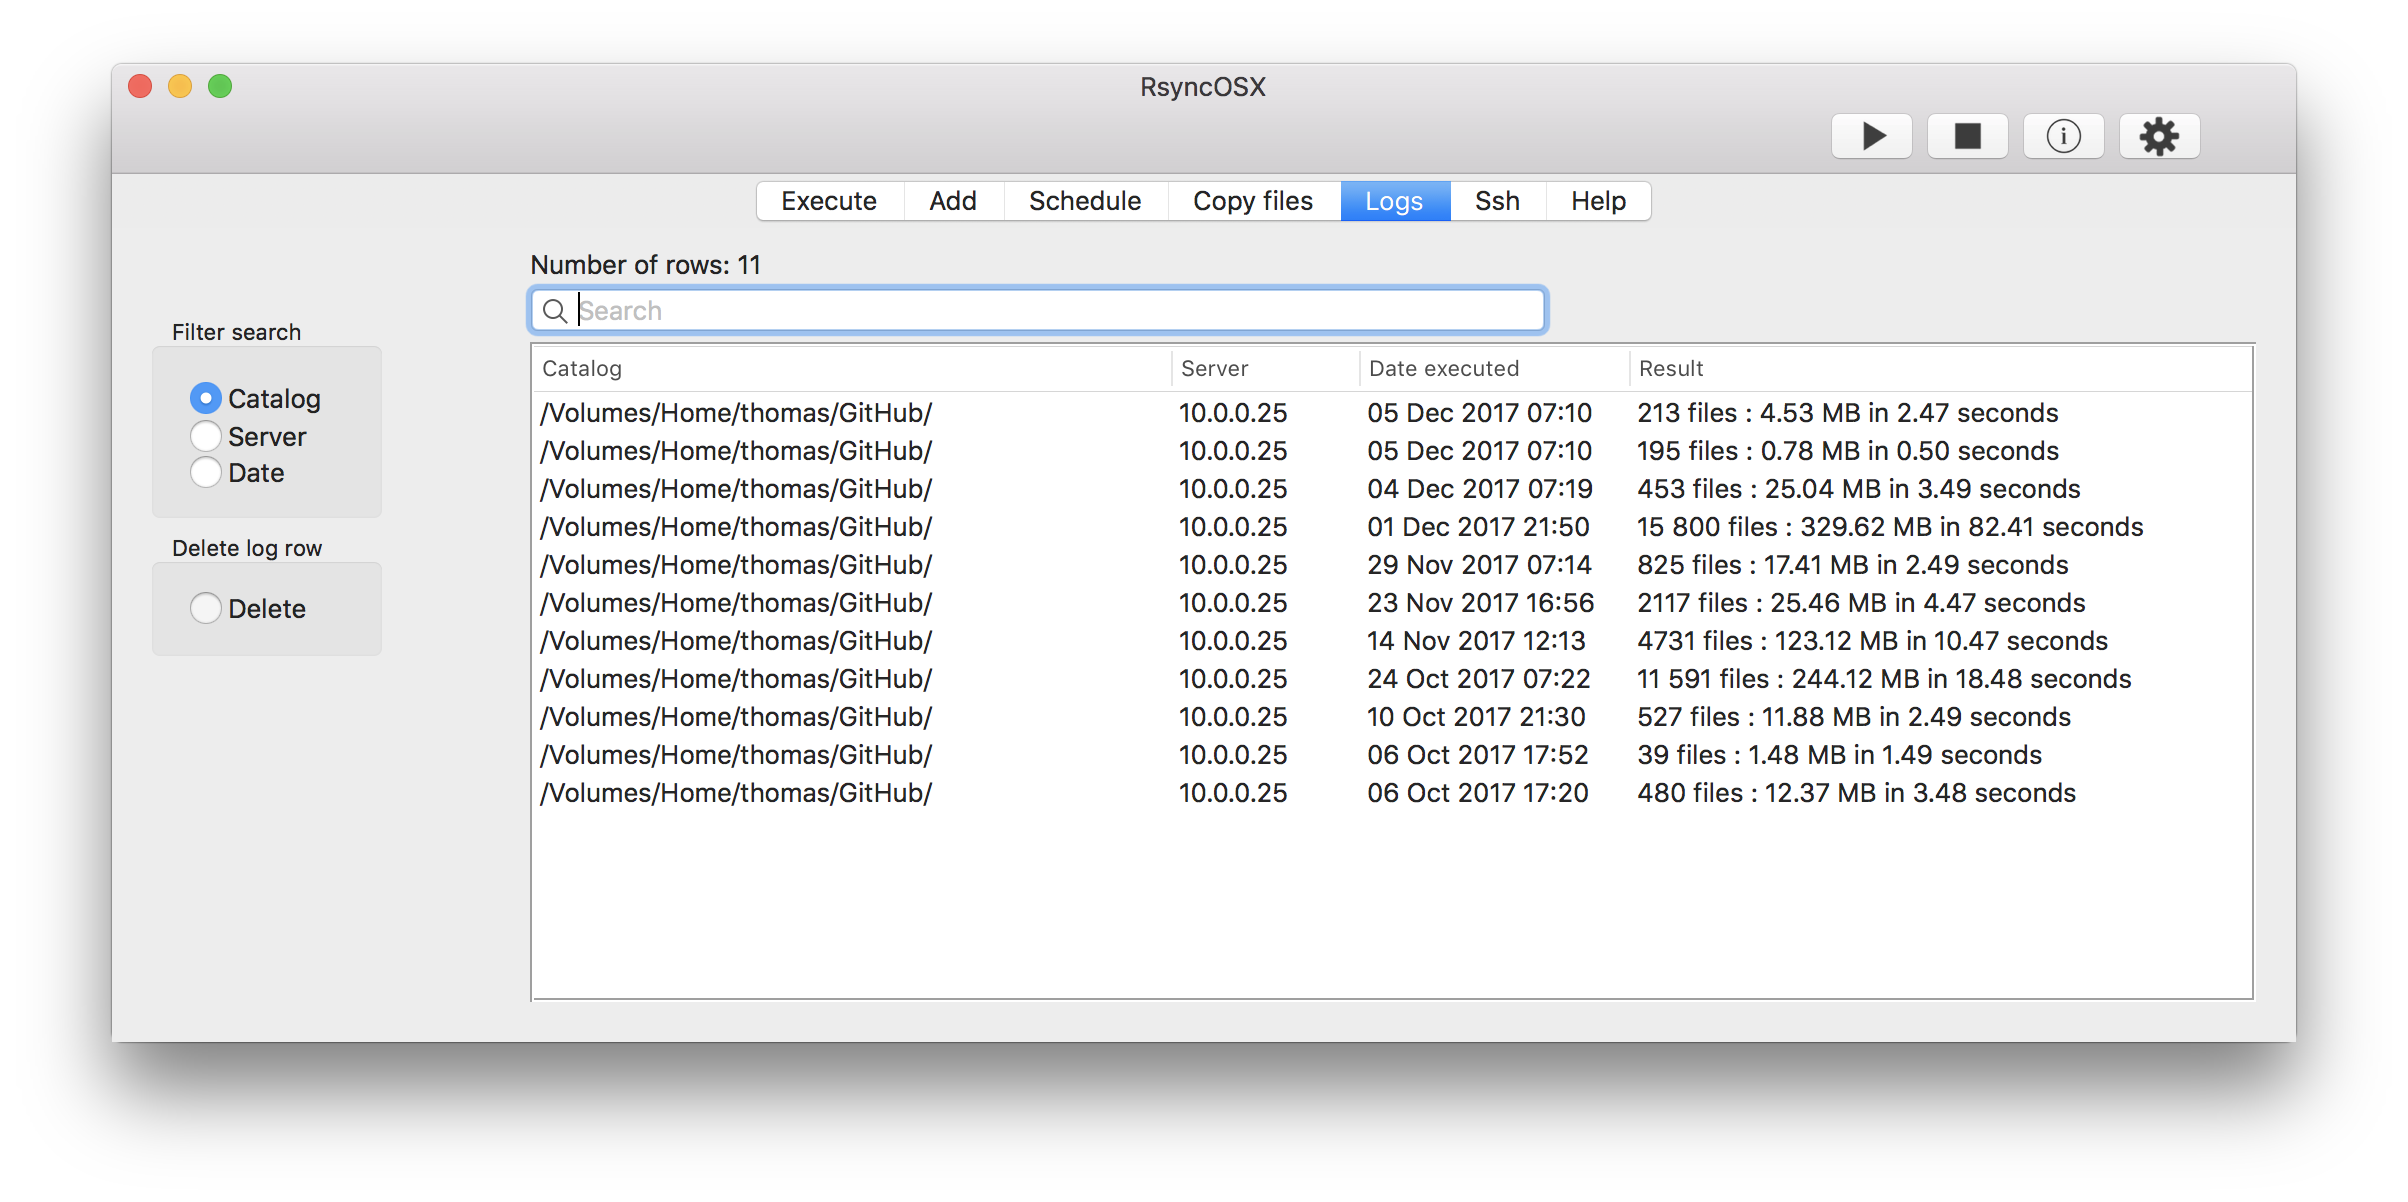
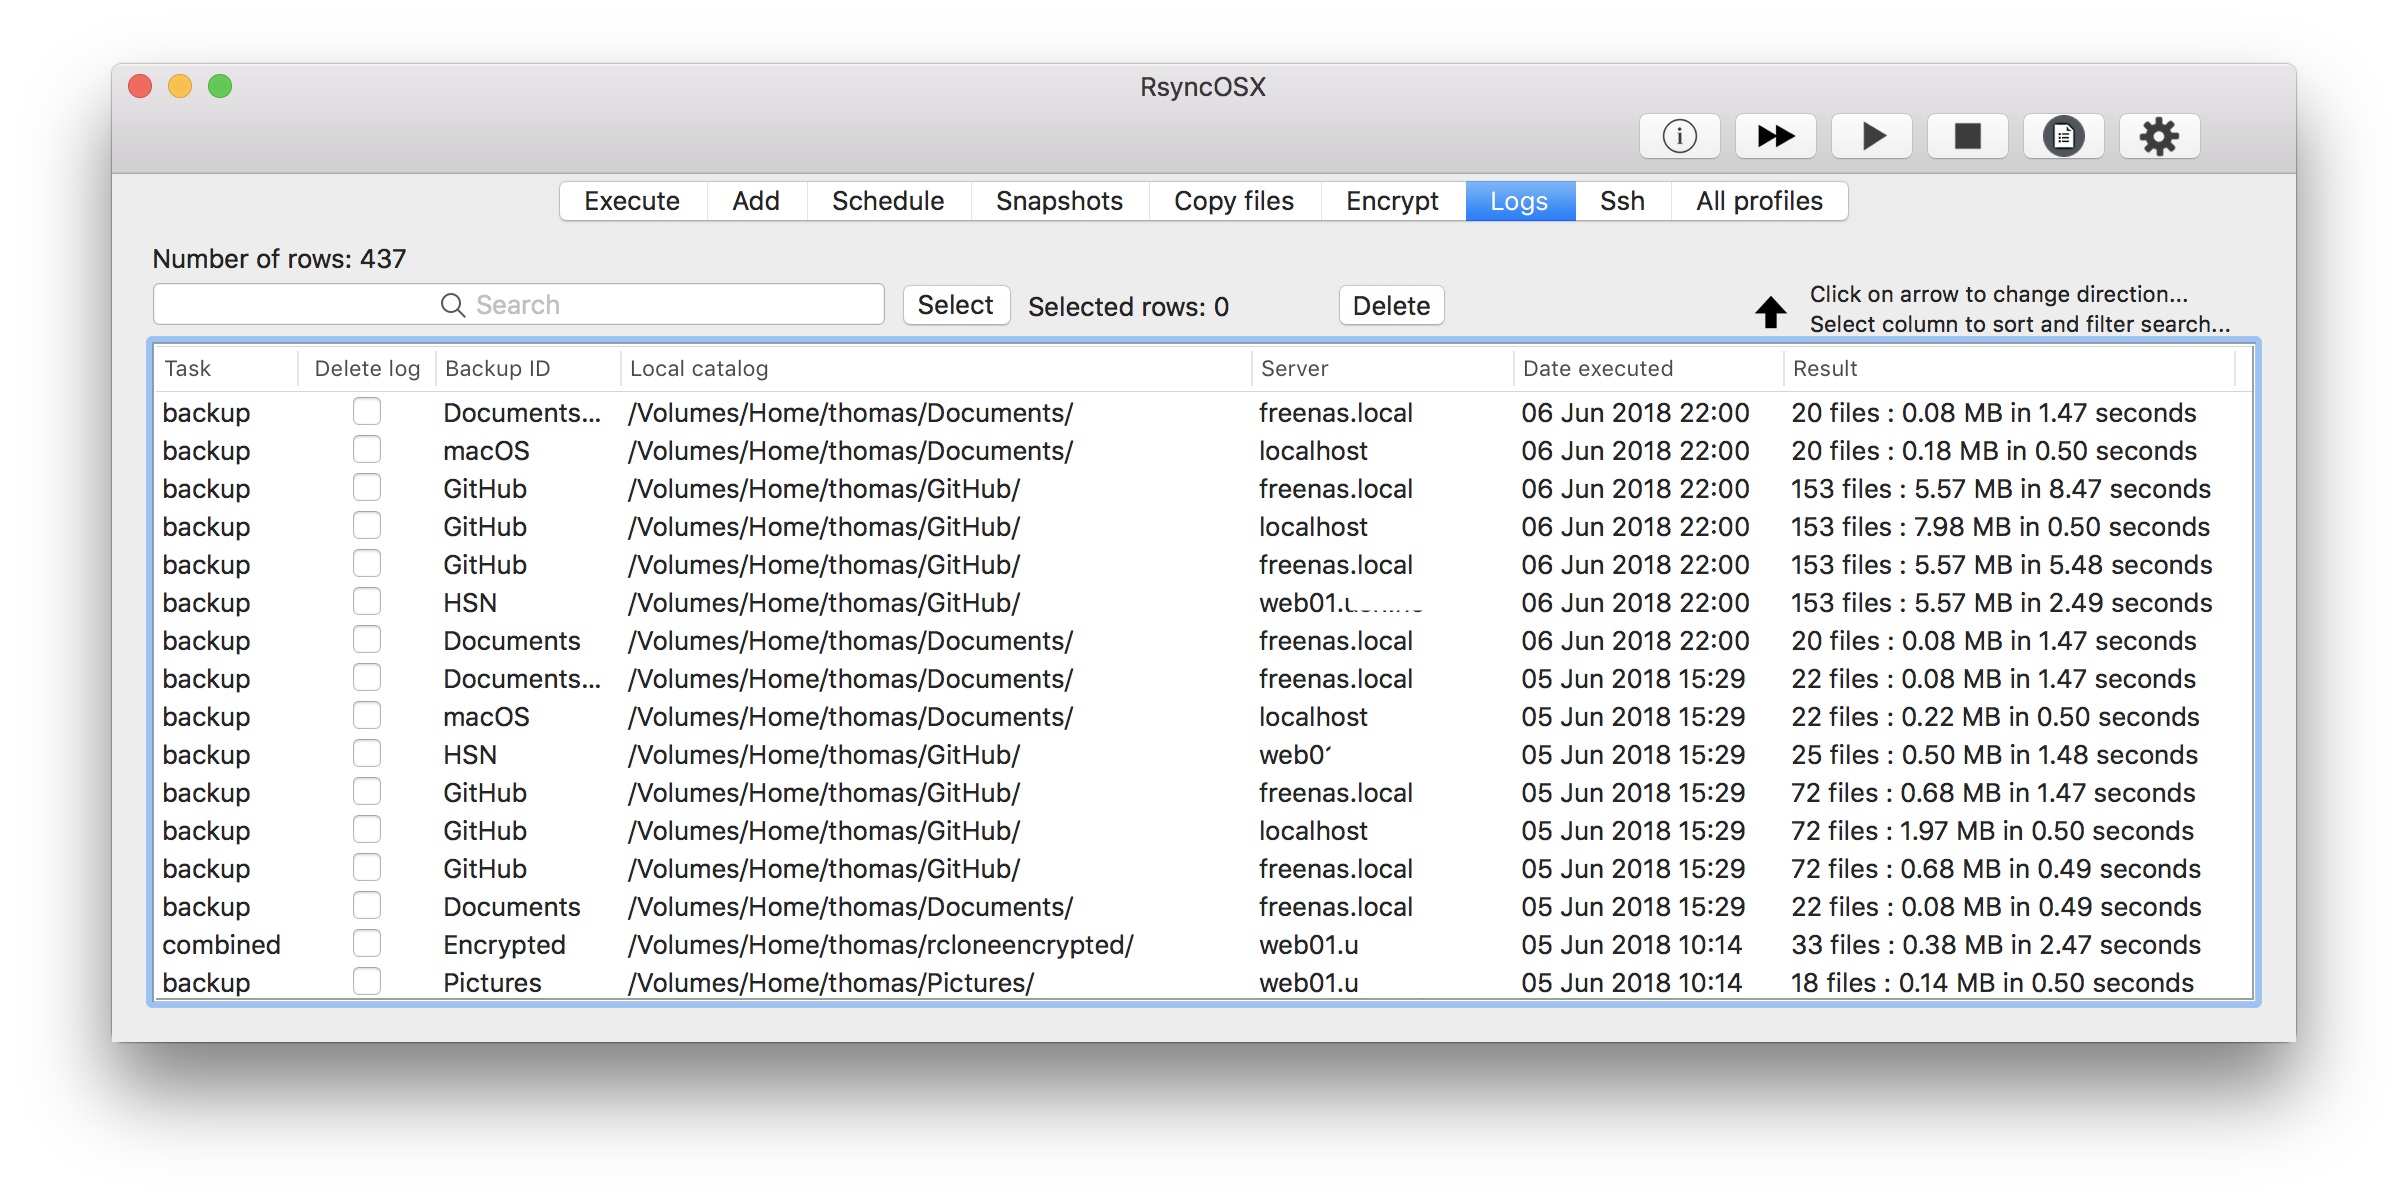
update

Changed region(s): [[0.0623, 0.1847, 0.9344, 0.8619], [0.2492, 0.0923, 0.7787, 0.1847], [0.8409, 0.0923, 0.8721, 0.1231]]

diff --git a/_posts/2018-04-10-Logging.md b/_posts/2018-04-10-Logging.md
@@ -3,17 +3,14 @@ layout: post
 title:  "Logging"
 permalink: Logging
 ---
-Detailed logging in RsyncOSX might be switched on/off in user configuration. Only **backup** tasks are logged. All loggdata is by default listed in table within Logs view (sorted by date). Loggdata can be _filtered_ by text search in:
+Detailed logging in RsyncOSX might be switched on/off in user configuration. All log records is by default listed in table within Logs view (sorted by date). Loggdata can be *filtered* by text search by selecting the appropriate column. The direction for sort is selected by direction of the arrow. Log records can be selected for delete as well. You might filter logs by date or month and then select the filtered log records for deleting.
 
-- **Server** (remote server)
-- **Catalog** (local catalog)
-- **Date**
+![](/images/RsyncOSX/master/logging/log1.png)
 
-Loggdata is filtered by one of the three subjects depended upon which radio button is on. Cancel search field reloads all loggdata.
+Filter log records and select filtered logs for delete.
 
-![Schedule](/images/RsyncOSX/master/logging/log1.png)
+![](/images/RsyncOSX/master/logging/log2.png)
 
-### Sample server
+Confirmation of delete logs.
 
-Loggdata can be filtered by (remote) server.
-![Schedule](/images/RsyncOSX/master/logging/log2.png)
+![](/images/RsyncOSX/master/logging/log3.png)
